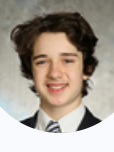
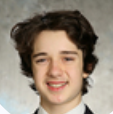
sdfjhalsdk

diff --git a/index.html b/index.html
@@ -63,7 +63,7 @@
 	<div class = "content">	
 		<div class="block" style = "margin-bottom: 0px; padding-top: 1.5%; padding-bottom: 1.5%; ">
 			<h1 >UCC Coding and Algorithms Academy</h1>
-			<h3>The Home for all UCC's Coders</h3>
+			<h3 style = "color: #972900">The Home for All UCC Coders</h3>
 			
 		</div>
 
@@ -125,30 +125,38 @@
 			<br id = "events"><br> 
 
 			<h1 >Upcoming Events</h1>
-		
+			
 				<div class = "row nomargin" style=	 "margin-top: 2%">
-					<div class = "margins whitesec blacksec col col-6" >
+					<div class = "margins  blacksec col col-6" >
 						<h4> Sign Up at the UCC Club Fair in September</h4>
 						<h5 class="lead">Thu, Sept. 19, 2019 - Lunch @ Student Center</h5>
 						<p> We will answer all questions regarding the club. Please drop by!</p>
 						
 					</div>
-					<div class = "margins col col-6" >
-						
+					<div class = "margins whitesec col col-6" >
+						<h4> First Club Meeting</h4>
+						<h5 class="lead">Thu, Sept. 26, 2019 - 3:45 - 5:15 @ Design Lab</h5>
+						<p> Kevin will lead the first Algorithms Study section, focusing on the fibonnaci sequence and basic recursion. William will lead the first Game Development section.</p>
+					
 					</div>
 				</div>
 				<div class = "row nomargin">
 					<div class = "margins whitesec col col-6">
-							<h4> First Club Meeting</h4>
-							<h5 class="lead">Thu, Sept. 26, 2019 - 3:45 - 5:15 @ Design Lab</h5>
-							<p> Kevin Liu will lead the first Algorithms Study section, focusing on......</p>
+							
+							<h4> Second Club Meeting</h4>
+							<h5 class="lead">Thu, Oct. 3, 2019 - 3:45 - 5:15 @ Design Lab</h5>
+							<p> Ibrahim will lead the first Web Development section, followed by Nima's first AI/Machine Learning.</p>
 						
-
 					</div>
 					<div class = "margins blacksec col col-6">
+							<h4> Club Photo & Meeting</h4>
+							<h5 class="lead">Thu, Oct. 10, 2019 - 3:45-5:15 @ Design Lab</h5>
+							<p> Today we'll take the club photo, which will be featured on this website. The photo will be followed by a regular club meeting - Kevin and Will will continue their respective discussions.</p>
 						
 					</div>
 				</div>
+			
+			
 
 		</div>
 
@@ -160,7 +168,7 @@
 			<hr class="line1">
 				<h1 class ="mb-0 pb-0">Weekly Meetings</h1>
 				<div class = "row pb-4">
-					<div class = "col col-12 col-sm-4 col-lg-2">
+					<div class = "col nomargintop col-12 col-sm-4 col-lg-2">
 						<div class="media">
 							<div class="media-left">
 								<i class="fas fa-calendar-alt text-primary"></i>
@@ -170,80 +178,81 @@
 							</div>
 						</div>
 					</div>	
-					<div class = "col col-12 col-sm-4 col-lg-2">
+					<div class = "col nomargintop col-12 col-sm-4 col-lg-2">
 						<div class="media">
 								<div class="media-left">
 									<i class="fas fa-history text-primary"></i>
 								</div>
 								<div class="media-body ml-2">
-									3:45 pm
+									3:45-5:15 pm
 								</div>
 						</div>
 					</div>
-					<div class = "col col-12 col-sm-4 col-lg-8">
+					<div class = "col  nomargintop col-12 col-sm-4 col-lg-8">
 						<div class="media">
-								<div class="media-left">
-									<i class="fas fa-building text-primary"></i>
-								</div>
-								<div class="media-body ml-2">
-									Design Lab (302)
-								</div>
+							<div class="media-left">
+								<i class="fas fa-building text-primary"></i>
+							</div>
+							<div class="media-body ml-2">
+								Design Lab (302)
+							</div>
 						</div>
 					</div>
 				</div>
 
 				<div class = "row">
-					<div class = "col col-12 col-sm-6">
-
+					<div class = "col  col-12 col-sm-6 pr-5">
+						
+						<h3> First Half of Meeting </h3>
+						<h4>Section Discussions</h4>
+						<p> In this part, section heads take turns leading discussions about topics in their respective sections (algorithmic study, game development, web development, and AI study). Each section discussion will usually be around 15-25 minutes. Around two section discussions will be held each week, so the club should touch basis on all four sections within a two-week time span. This part will take around 40-50 minutes. </p>
 					</div>
 					<div class = "col col-12 col-sm-6">
-						
+						<h3> Second Half of Meeting </h3>
+						<h4>Hands-on Projects</h4>
+						<p> In this part, the club will work on projects for about 30-45 minutes. This will be a time where members really have the freedom to work on whatever they want – they can choose to contribute to a larger, club-wide project, work on a project within a section, or develop their own projects. These projects can range from a website or a game to an application of AI/machine learning in the real-world.  </p>
+
 					</div>
 				</div>
 				
 			</div>
 			
-			<div class = "block" style = "padding-top: 1.5%">
+			<div class = "block" style = "padding-top: 0%; padding-bottom: 0%">
 					<hr class="line1">
 						<h1>Annual Events</h1>
-							<div class = "row" style = "padding-bottom: 20px">
-								<div class = " col col-6" >
+							<div class = "row" >
+								<div class = " col col-8" >
 			
 									<h4> UCC Algorithms and Coding Competition</h4>
 									<h5 class="lead">Early of May 2020 (Date TBD)</h5> 
-									<p>This event will be 5-question, 1.5-hour contest at the Design Lab. The three top scorers will be named as <b>UCC Coders of the Year </b>and will be announced to the whole school.</p>
+									<p>This event will be 5-question, 1.5-hour contest at the Design Lab. All the concepts required for these questions will be discussed in our Algorithms Section discussions. The three top scorers will be named as <b>UCC Coders of the Year </b>and will be announced to the whole school. Stay tuned for more information!</p>
+									<h4> UCC Design Talent Show</h4>
+									<h5 class="lead">During the UCC Design Week (Date TBD)</h5>
+									<p>This event will enable UCC students to showcase their personal coding innovations that either solve a real-life problem or create a new product (These can be a project you designed during the hands-on project period of each meeting). The three winners of the talent show will be named as <b>UCC Innovators of the Year</b> and will be announced to the whole school. Stay tuned for more information!</p>
+						
 								</div>
-								<div class = " col col-6" style = "text-align: center;" >
-										<img src="Media/man-talking big.jpg" class="img-fluid" style ="width: 50%; "alt="Responsive image">
+								<div class = " col col-4" style = "text-align: center;" >
+										<img src="Media/announcer.jpg" class="img-fluid" style ="width: 70%; "alt="Responsive image">
 			
 								</div>
 							</div>
-							<div class = "row " style = "padding-bottom: 7%">
-									<div class = " col col-6" style = "text-align: center;" >
-											<img src="Media/codecontest.jfif" class="img-fluid" style ="width: 80%; "alt="Responsive image">
-				
-									</div>
-								<div class = " col col-6" >
-										
-										<h4> UCC Design Talent Show</h4>
-										<h5 class="lead">During the UCC Design Week (Date TBD)</h5>
-										<p>This event will enable UCC students to showcase their personal coding innovations that either solve a real-life problem or create a new product. The three winners of the talent show will be named as <b>UCC Innovators of the Year</b> and will be announced to the whole school.</p>
-								</div>
-							</div>
+							
 			
 					</div>
 	
 		<div id = "sections" class="block">
 			<hr class="line1">
-			<h1 >Our Sections</h1>
+			<h1 class = "mb-4">The Four Sections</h1>
+			<h5> Our club covers four aspects of coding: Algorithms, AI/Machine Learning, Web Development and Game Development. </h5>
+			<p> Members can be involved in any or even all of the four sections (i.e. participate in their discussions and projects).</p>
 			<div class="container">
 				<div class="row">
 					
-					<div class="col col-12 col-md-6">
+					<div class="col col-12 col-md-6 pr-md-4">
 						<div class="card">
 							<img class="card-img-top" src="Media/algorithms.jpg" alt="Card image cap">
 							<div class="card-body">
-									<h4 class="card-title">Algorithms Section</h4>
+									<h4 class="card-title">Algorithms </h4>
 									<h5> Run by Kevin Liu</h5>
 									<hr class = "line1 line1-light">
 									<p class="card-text">During each Section Discussion led by Kevin, Kevin will bring up a well-defined algorithmic topic and lead a discussion about it. Then he will give a typical problem of the topic for members to think about for the next session. In the next Section Discussion led by Kevin, he will allow members to share their solutions and thoughts for the problem and discuss each of their solutions, and then the group will move onto another well-defined topic. On the Club website under the Section of Algorithmic Study, Kevin will post the current algorithmic topic and the "question of the week"; and after a topic is done, he will post a brief summary note and then archive the topic.</p>
@@ -251,11 +260,11 @@
 							</div>
 						</div>
 					</div>
-					<div class = "col col-12 col-md-6">
+					<div class = "col col-12 col-md-6 pl-md-4">
 						<div class="card">
 						<img class="card-img-top" src="Media/ai.png" alt="Card image cap">
 						<div class="card-body">
-							<h4 class="card-title">AI/Machine Learning Section</h4>
+							<h4 class="card-title">AI/Machine Learning </h4>
 							<h5> Run by Nima Bidari</h5>
 							<hr class = "line1 line1-light">
 							<p class="card-text">Each Section Discussion meeting is split into two parts: a theoretical exploration and a practical exploration of machine learning. First, Nima will lead a discussion about AI current events. Then Nima will explore a more advanced topic in a more in-depth discussion, while not going to deep about how to code it. The second half will focus on solving a new problem in the AI area, which the Club members will collaborate to solve for the couple of next weeks. The language to be used is either Python (Scikit Learn & Tensorflow) or Javascript (Tensorflow.js). Members will share and discuss their solutions the next Section Discussion before diving into the next topic. </p>
@@ -265,11 +274,11 @@
 					</div>
 					</div>
 				<div class = "row" style = "padding-top: 22px; ">
-					<div class="col col-12 col-md-6">
+					<div class="col col-12 col-md-6 pr-md-4">
 						<div class="card">
 							<img class="card-img-top" src="Media/gamedev.jpg" alt="Card image cap">
 							<div class="card-body">
-									<h4 class="card-title">Web Development Section</h4>
+									<h4 class="card-title">Web Development </h4>
 									<h5> Run by Ibrahim Fadel</h5>
 									<hr class = "line1 line1-light">
 									<p class="card-text">During each Section Discussion, Ibrahim will find an interesting topic related to web development to discuss. He will look at real world problems and how to attack them. A heavy focus will be put on writing clean reusable code that anyone could look at and understand. Members will be given the opportunity to try to solve these problems, then talk about these solutions and discuss the benefits of each. In some meetings Ibrahim will look at certain libraries such as Bootstrap and how to use them, as these are very useful tools in the real world. He might also look at front-end frameworks such as React near the end of the year.  </p>
@@ -277,11 +286,11 @@
 							</div>
 						</div>
 					</div>	
-					<div class="col col-12 col-md-6">
+					<div class="col col-12 col-md-6 pl-md-4">
 						<div class="card">
 							<img class="card-img-top" src="Media/webdev.jpg" alt="Card image cap">
 							<div class="card-body">
-									<h4 class="card-title">Game Development Section</h4>
+									<h4 class="card-title">Game Development </h4>
 									<h5> Run by William Trojniak</h5>
 									<hr class = "line1 line1-light">
 									<p class="card-text">Every two months or so, William will be presenting a general theme that club members will design a game around. Then, he will gradually build his own game around this theme, focusing on a certain element of the game each meeting. For example, this could include features such as character movement, health, or a score indicator. By the end of the two months, the goal for the club members is that by incorporating these elements into their own games, they have created something that is fully playable. Club members will then be given a chance to show off their own creative takes on the original theme as well as any extra features that they've implemented.   </p>
@@ -329,8 +338,8 @@
 			</div>-->
 			<br>
 			<hr class="line1 line1-light">
-			<h2> Have an interesting project idea? </h2>
-			<h4> Let us know! </h4>
+			<h3> Have an interesting project idea? </h3>
+			<h5> Let us know! </h5>
 			<a href="#" class="btn btn-primary">Project Request Form</a>
 
 			
@@ -339,12 +348,14 @@
 		<div id = "team" class="block">
 				<hr class="line1">
 			<h1>Our Team</h1>
-			<h4> Our Faculty Advisor is <b>Mr. Paul Miskew, Design Chair, Upper Canada College.</b></h4>
+			<h5> Our Faculty Advisor is <b>Mr. Paul Miskew, Design Chair, Upper Canada College.</b></h5>
 			<div class="container">
 				<div class="row">
 				<div class="col col-12 col-sm-6 col-lg-3">
-					<div class="card" style = "margin-left: 20px; margin-right: 20px;">
-						<img class="card-img-top" src="Media/kl.jpg" alt="Card image cap">
+					<div class=" profilecard ml-5 mr-5 ml-sm-3 mr-sm-3" >
+					
+						<img class="card-img-top rounded" src="Media/kl.jpg" alt="Card image cap">
+
 						<div class="card-body">
 						<h4>Kevin Liu</h4>
 						<p>Club Founder, President, and Head of Algorithmic Study</p>
@@ -352,8 +363,10 @@
 					</div>
 				</div>
 				<div class="col col-12 col-sm-6 col-lg-3">
-					<div class="card" style = "margin-left: 20px; margin-right: 20px;">
-						<img class="card-img-top" src="Media/wt.png" alt="Card image cap">
+					<div class="profilecard ml-5 mr-5 ml-sm-3 mr-sm-3" >
+						
+						<img class="card-img-top rounded" src="Media/wt.png" alt="Card image cap">
+						
 						<div class="card-body">
 						<h4>William Trojniak</h4>
 						<p>Vice President, and Head of Game Development</p>
@@ -362,8 +375,8 @@
 				</div>
 				
 				<div class="col col-12 col-sm-6 col-lg-3">
-					<div class="card" style = "margin-left: 20px; margin-right: 20px;">
-						<img class="card-img-top" src="Media/if.png" alt="Card image cap">
+					<div class="profilecard ml-5 mr-5 ml-sm-3 mr-sm-3">
+						<img class="rounded card-img-top" src="Media/if.png" alt="Card image cap">
 						<div class="card-body">
 						<h4>Ibrahim Fadel</h4>
 						<p>Vice President, and Head of Web Development</p>
@@ -371,8 +384,8 @@
 					</div>
 				</div>
 				<div class="col col-12 col-sm-6 col-lg-3">
-					<div class="card" style = "margin-left: 20px; margin-right: 20px;">
-						<img class="card-img-top" src="Media/nb.png" alt="Card image cap">
+					<div class="profilecard ml-5 mr-5 ml-sm-3 mr-sm-3">
+						<img class="rounded card-img-top" src="Media/nb.png" alt="Card image cap">
 						<div class="card-body">
 						<h4>Nima Bidari</h4>
 						<p>Vice President, and Head of AI/Machine Learning</p>
@@ -382,6 +395,8 @@
 				</div>
 			</div>
 	</div>
+
+	
 	  
 	  
 

diff --git a/styles.css b/styles.css
@@ -13,7 +13,7 @@ body {
 
 
 .content{
-margin-top: 55px;
+margin-top: 3.8%;
 
 }
 
@@ -21,15 +21,18 @@ margin-top: 55px;
 background-color: #FFF;
 padding-left: 7%;
 padding-right: 7%;
-padding-top: 36px;
-padding-bottom: 36px;
-margin-bottom: 22px;
+padding-top: 0.3%;
+padding-bottom: 0.6%;
+
 }
 
 .col{
-margin-top: 30px
+margin-top: 1.3%
 }
 
+ .nomargintop{
+margin-top: 0.5%;
+}
 
 
 .nav-item{
@@ -58,17 +61,18 @@ height: 100%;
 
 .blacksec{
   
-  padding-top: 3%;
+  padding-top: 2.5%;
   padding-bottom: 3%;
-  background-color: #DDD;
-  color: black;
+  background-color: #333;
+  color: #eee;
   margin: 0;
 }
 
 .whitesec{
   
-  padding-top: 3%;
+  padding-top: 2.5%;
   padding-bottom: 3%;
+  background-color: #ececec;
 
   margin: 0;
 }
@@ -166,10 +170,10 @@ body {font-size: 1rem!important;}
  
   margin:0;
   width:100%;
-  height:2px;
-  background:black;
-  margin-top: 1.36%;
-  margin-bottom: 1.36%
+  height:2.101010101px;
+  background:#972900;
+  margin-top: 1.6%;
+  margin-bottom: 1.6%
 }
 
 .line1-light{
@@ -179,4 +183,18 @@ body {font-size: 1rem!important;}
 
  .media {
   font-size: 1.3rem;
+  
+}
+
+.rounded{
+  border-radius: 100%!important;
+  
+}
+
+.profilecard{
+  margin-left: 4%; 
+  margin-right: 4%;
+  border-width: 0px;
+  text-align: center;
+  margin-top: 5%
 }
